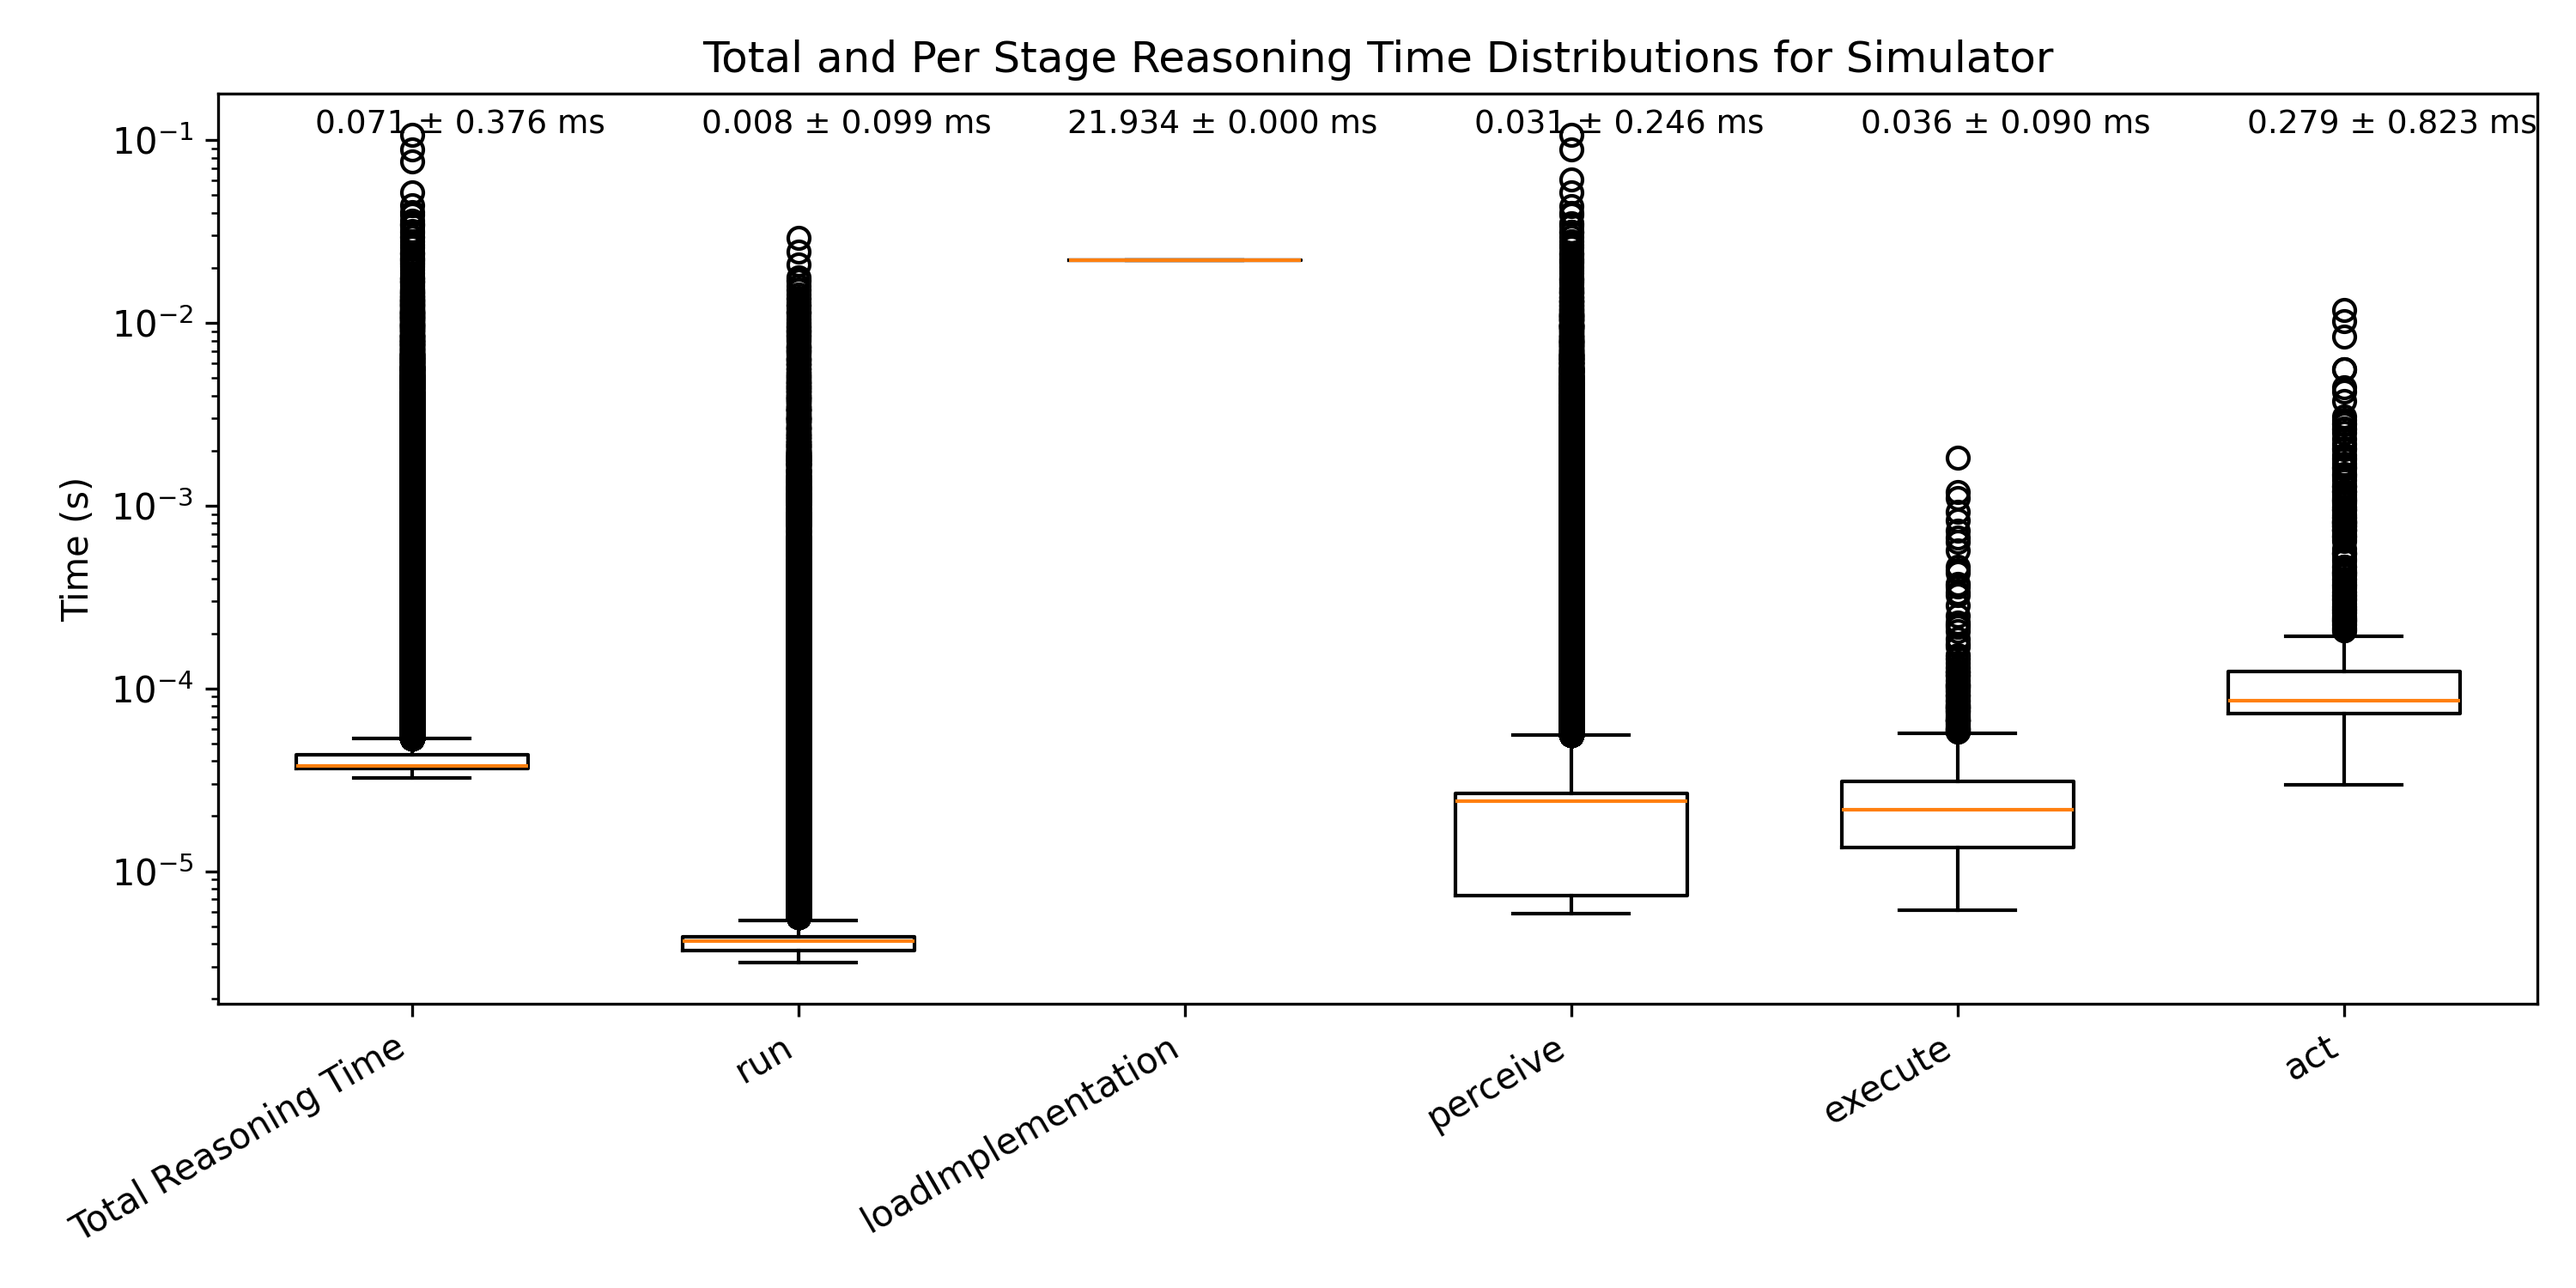
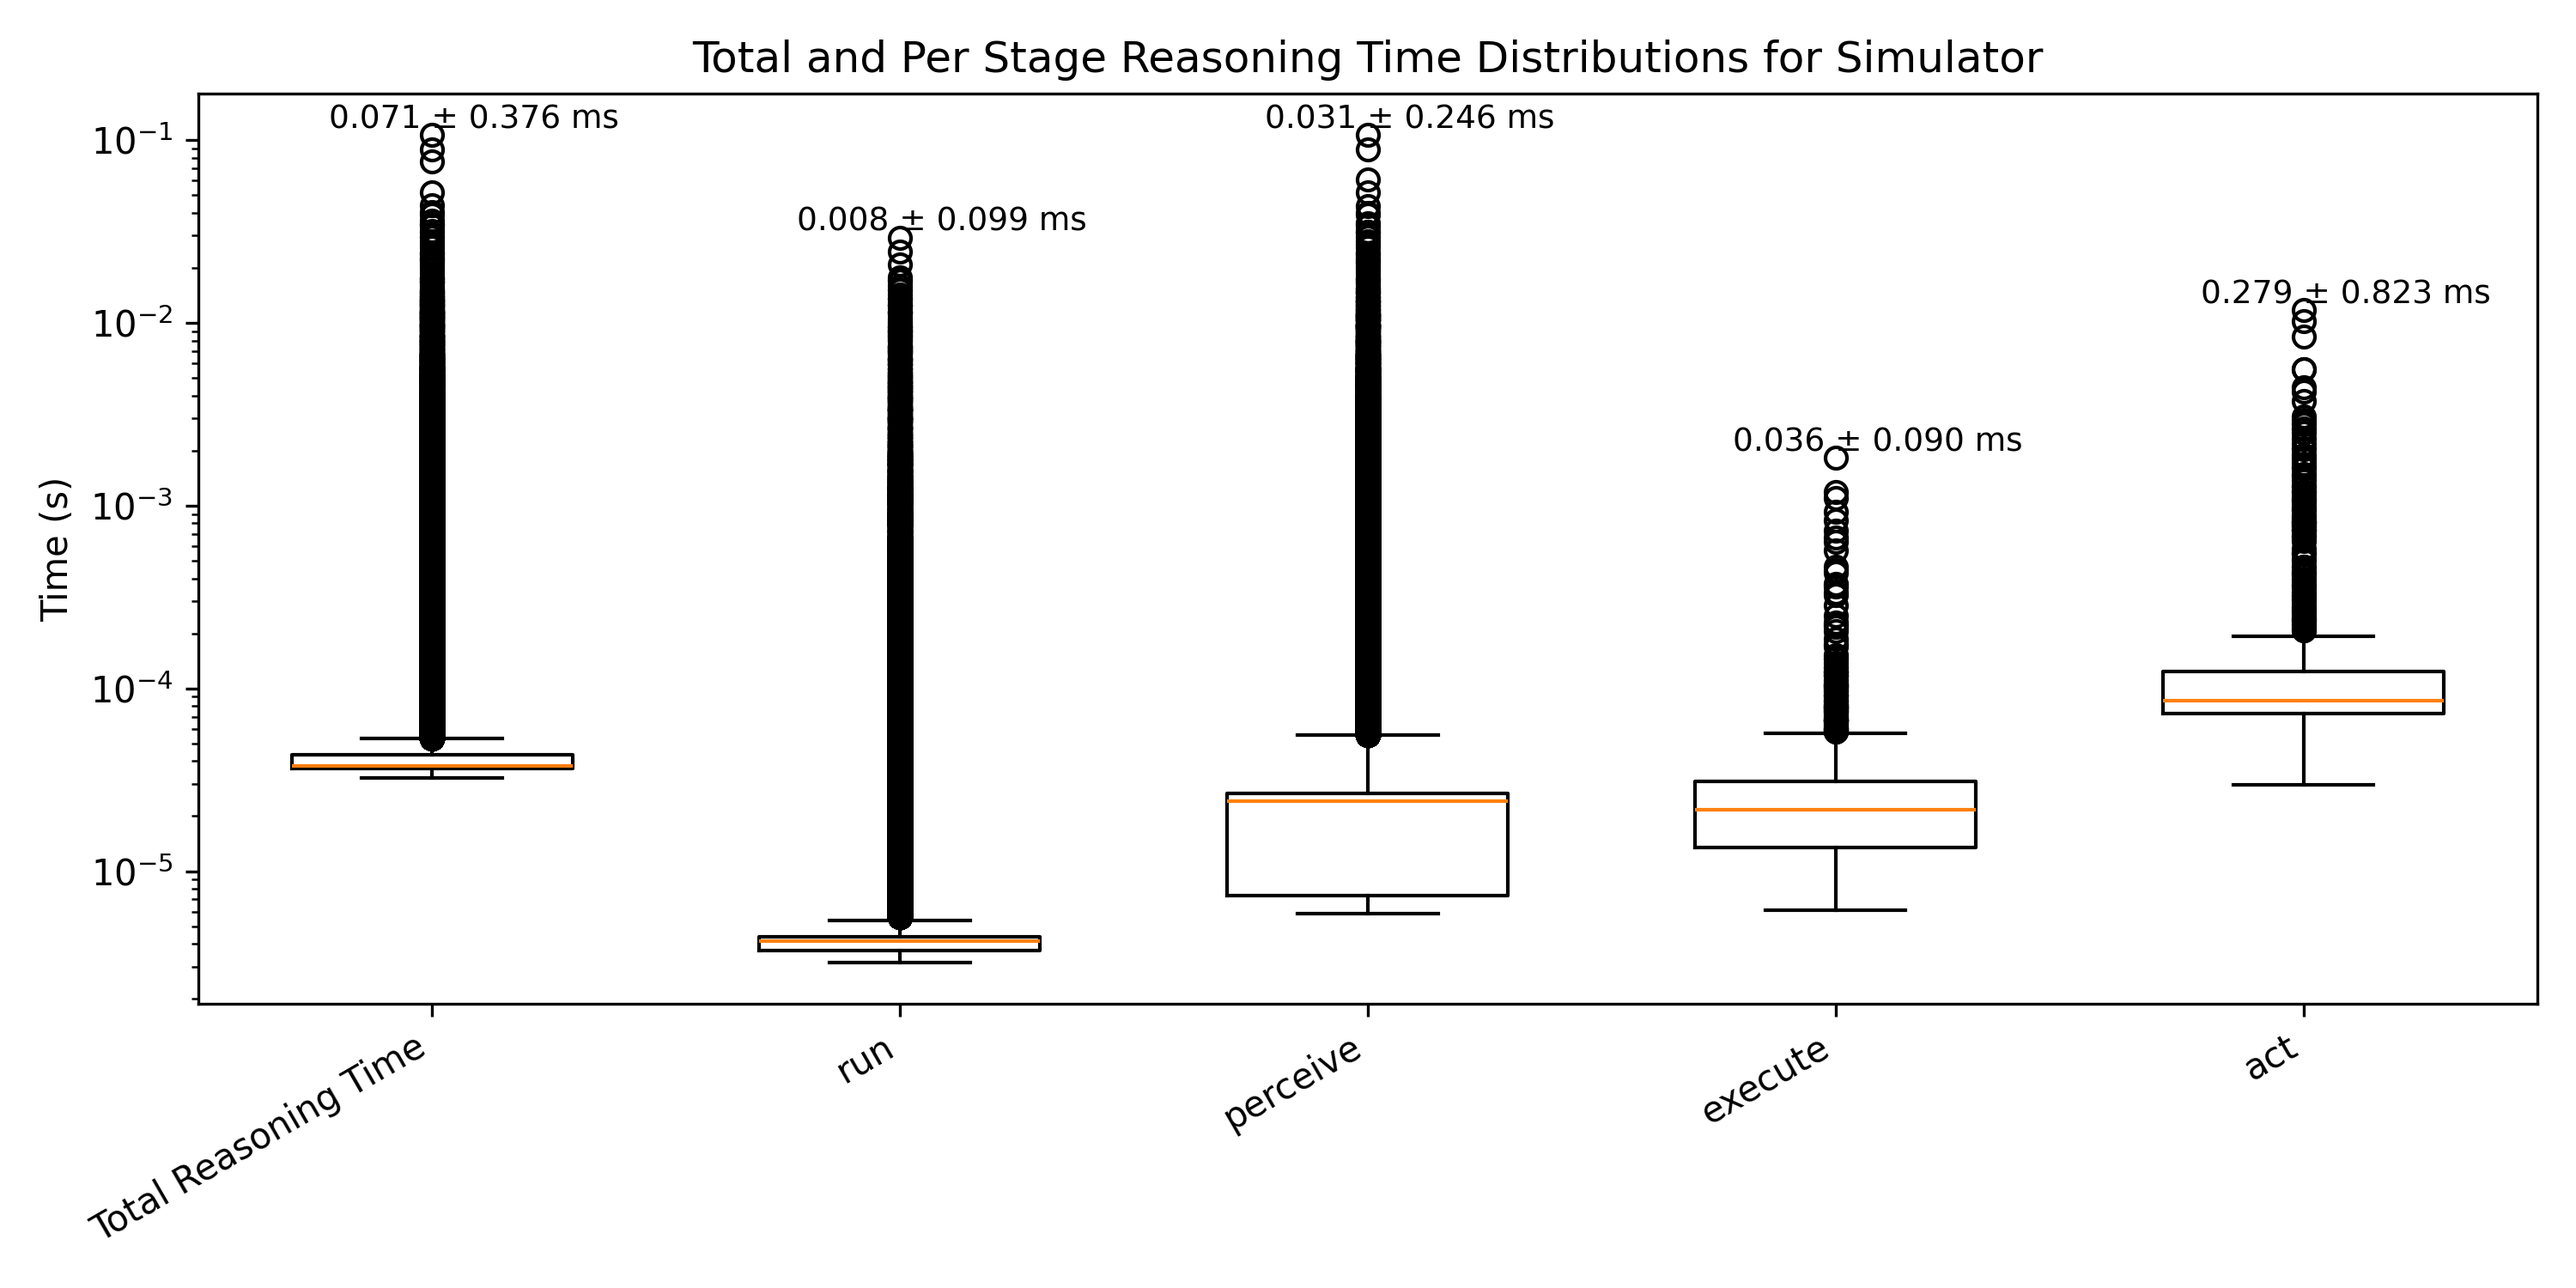
Added the robot timing diagrams.

diff --git a/miscellaneous/data_analysis/log_parser.py b/miscellaneous/data_analysis/log_parser.py
@@ -78,6 +78,8 @@ def combined_violin_box(cycle_times, stage_times, out_file):
     data = [cycle_times]
 
     for stage, times in stage_times.items():
+        if stage == "loadImplementation":
+            continue
         labels.append(stage)
         data.append(times)
 
@@ -102,8 +104,8 @@ def combined_violin_box(cycle_times, stage_times, out_file):
         label = f"{mean:.3f} ± {std:.3f} ms"
 
         ax.text(
-            i + 0.5,          
-            0.1,
+            i + 0.4,          
+            max(values),
             label,
             fontsize=9,
             ha='right',
